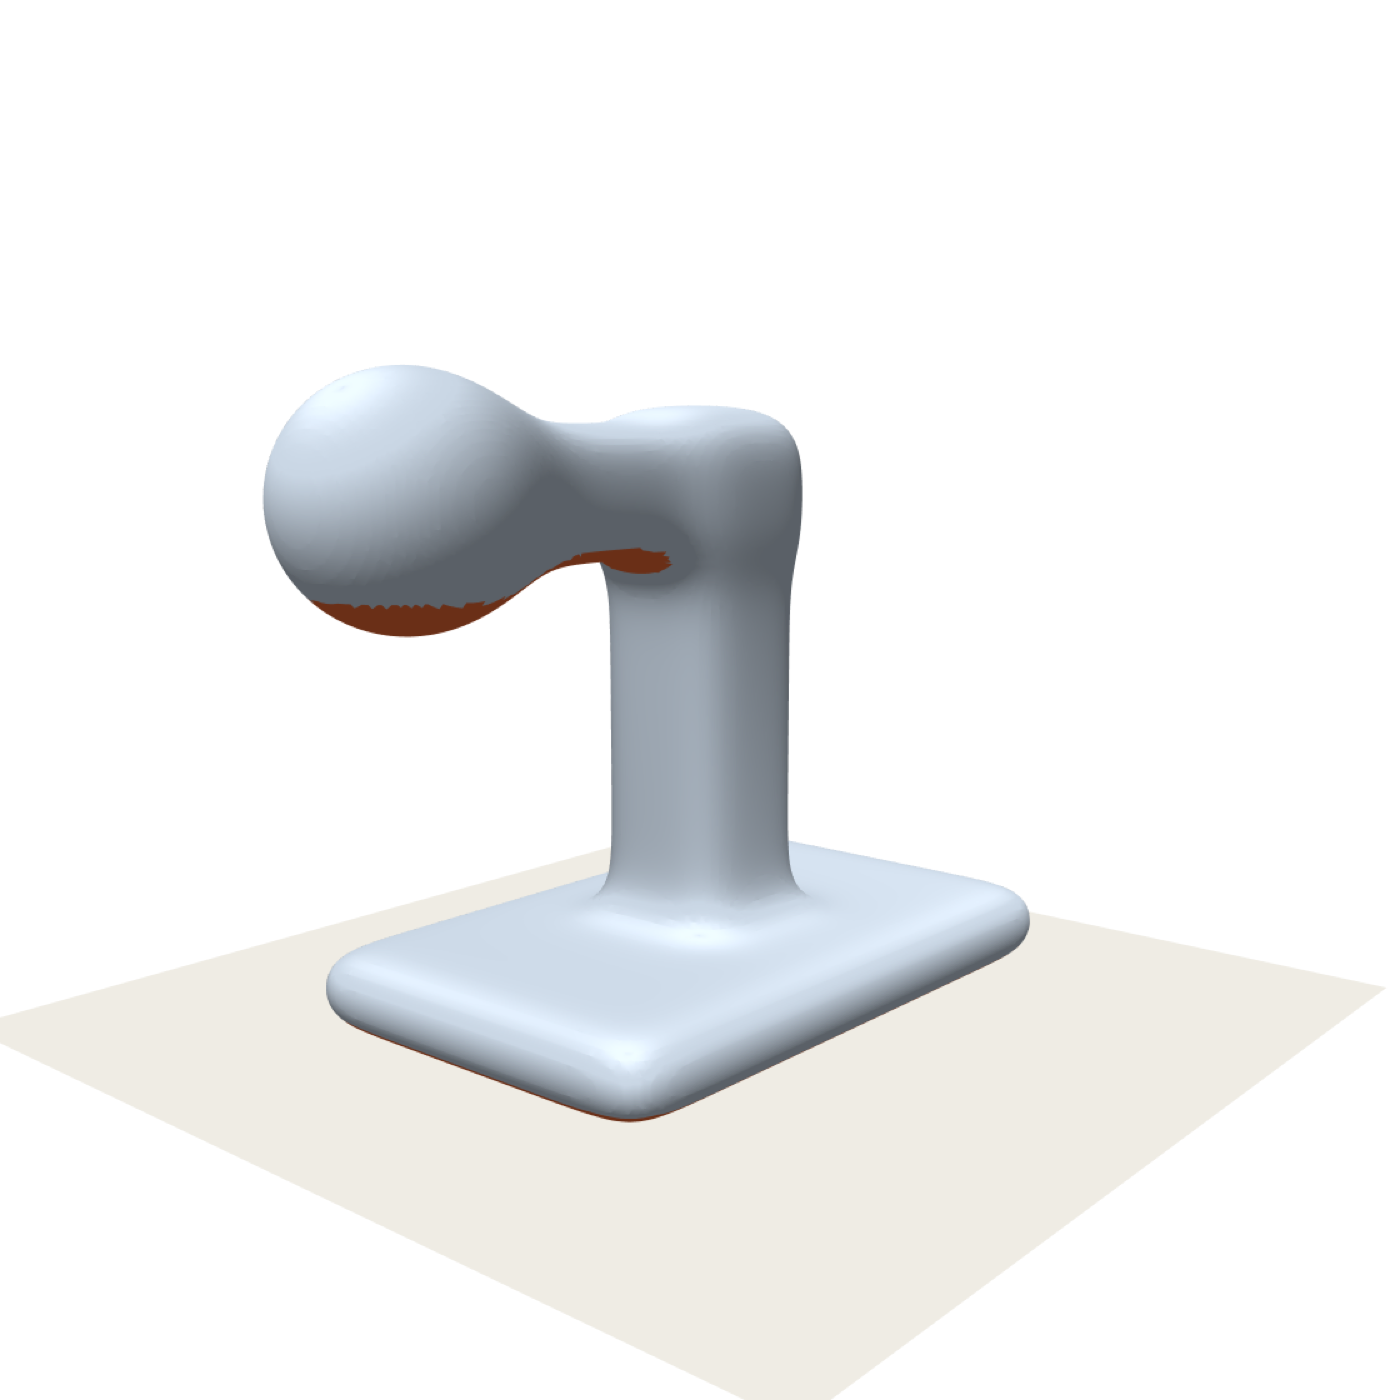
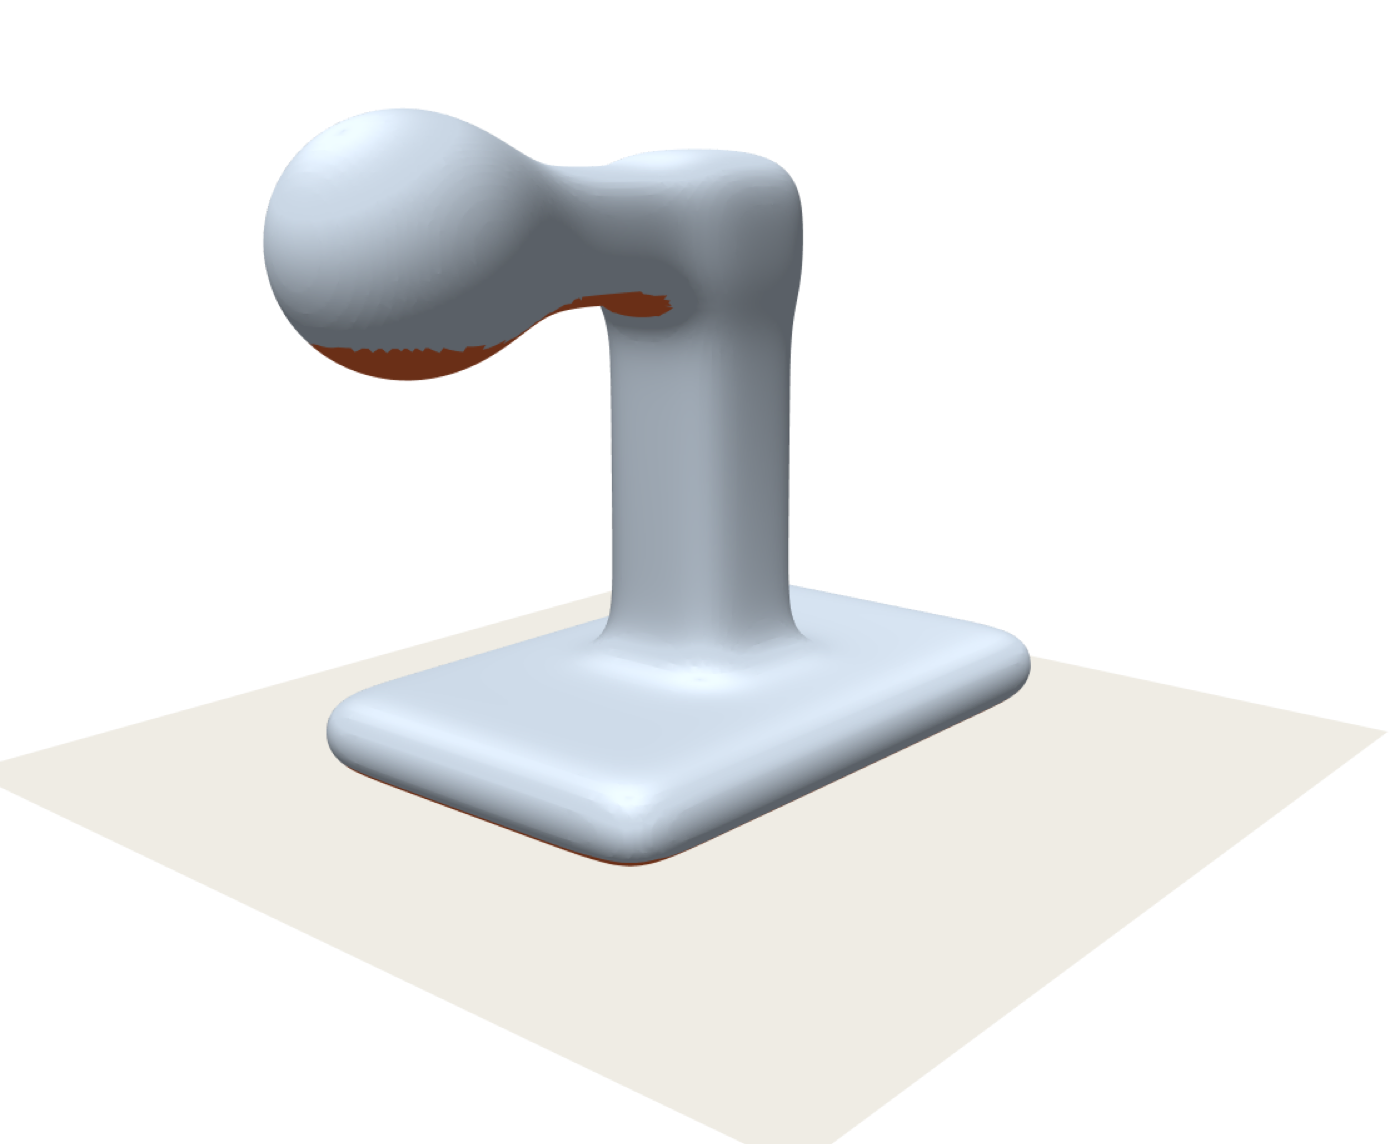
Trim figure whitespace and note what the cost model leaves out
plotly bakes a wide white border around a 3D render, which left the Hopf
figures floating in empty space on the page. crop.py trims it; panels
that share a figure row are cropped to a common box so the part does not
appear at different scales across a row.

Also states plainly that the cost counts overhang area alone, which is
why the pictured optimum balances the part on a narrow face, and that a
production slicer weighs bed adhesion and print height too — none of
which changes the argument, since every such term is equally blind to
the turntable.

diff --git a/writing/orienting-3d-prints.html b/writing/orienting-3d-prints.html
@@ -165,6 +165,14 @@
         </figure>
 
         <p>
+            The cost here counts overhang area and nothing else, which is why the winner in Figure 1
+            happily balances the part on a narrow face. A production slicer weighs several terms at
+            once — how firmly the part grips the bed, how tall the print ends up, which surfaces the
+            support will scar — and the optimum shifts accordingly. That changes the landscape on the
+            sphere; it does not change the fact that the landscape lives on the sphere, because every one
+            of those terms is equally blind to the turntable.
+        </p>
+        <p>
             This is a genuinely two-dimensional search, and a small one. A few thousand directions cover
             the sphere finely enough to find the optimum. Had we insisted on searching orientations
             proper, we would have been sweeping a three-dimensional space and evaluating the same answer
